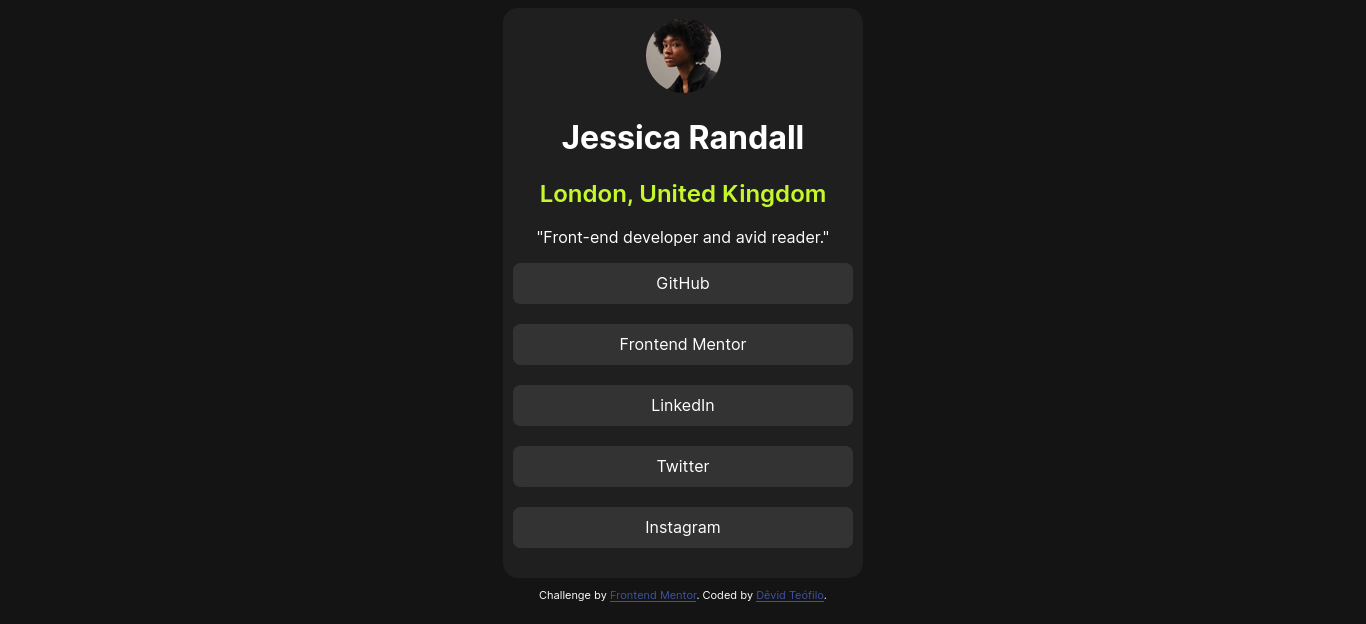
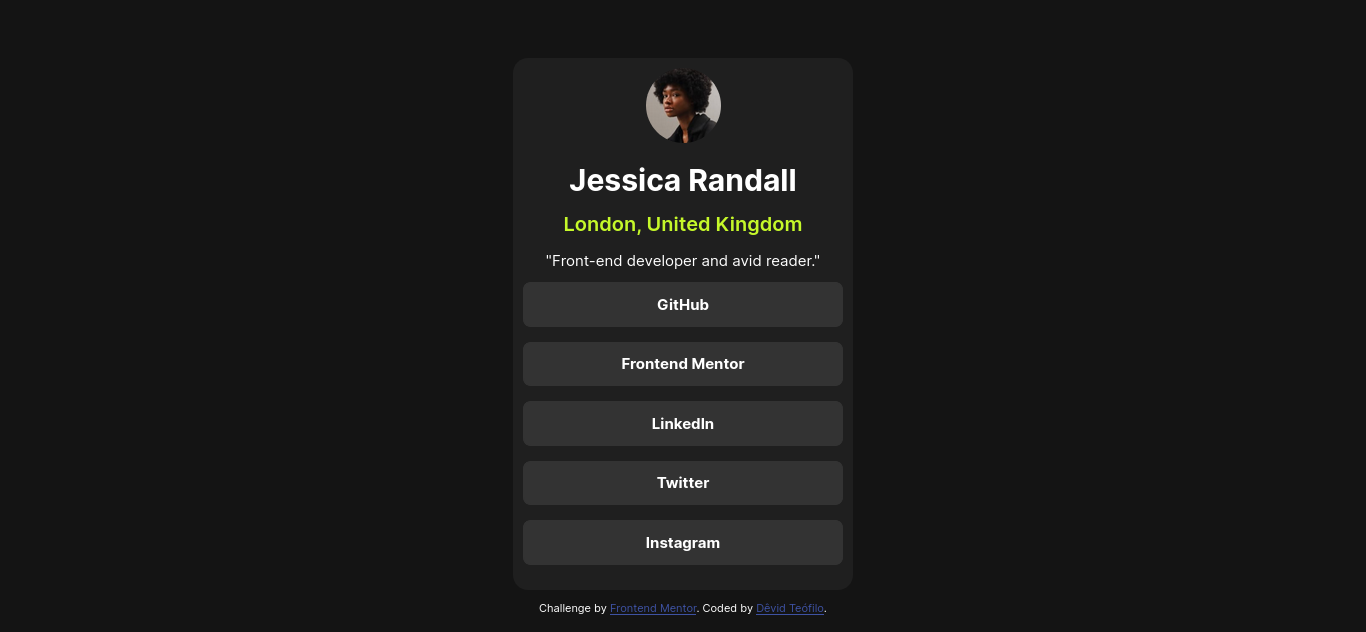
Added relative css units to Social Links Profile Challenge

diff --git a/frontendmentor/social-links-profile-main/index.html b/frontendmentor/social-links-profile-main/index.html
@@ -5,121 +5,44 @@
   <meta name="viewport" content="width=device-width, initial-scale=1.0">
 
   <link rel="icon" type="image/png" sizes="32x32" href="./assets/images/favicon-32x32.png">
-  
+  <link rel="stylesheet" href="reset.css">
+  <link rel="stylesheet" href="style.css">
+
   <title>Frontend Mentor | Social links profile</title>
-
-  <style>
-    @font-face {
-      font-family: 'Inter';
-      src: url(assets/fonts/Inter-VariableFont_slnt,wght.ttf);
-    }
-
-    * {
-      font-family: 'Inter';
-      font-weight: 400;
-    }
-
-    body {
-      background-color: hsl(0, 0%, 8%);
-    }
-
-    .container {
-      background-color: hsl(0, 0%, 12%);
-      width: 340px;
-      margin: auto;
-      padding: 10px;
-      text-align: center;
-      border-radius: 15px;
-    }
-
-    .avatar-image {
-      border-radius: 50%;
-      width: 75px;
-      height: 75px;
-    }
-
-    .primary-title {
-      font-weight: 700;
-      color: hsl(0, 0%, 100%);
-    }
-
-    .secondary-title {
-      font-weight: 600;
-      color: hsl(75, 94%, 57%);
-    }
-
-    .description-text {
-      font-weight: 400;
-      color: hsl(0, 0%, 100%);
-    }
-
-    .social-profile-links-list {
-      list-style-type: none;
-      margin: 0;
-      padding: 0;
-    }
-
-    .social-profile-links-list-item {
-      margin-bottom: 20px;
-    }
-
-    .social-profile-link:link, .social-profile-link:visited {
-      text-decoration: none;
-      color:hsl(0, 0%, 100%);
-      border-radius: 8px;
-      border: 1px solid hsl(0, 0%, 20%);
-      background-color: hsl(0, 0%, 20%);
-      display: block;
-      text-align: center;
-      padding: 10px;
-    }
-
-    .social-profile-link:hover, .social-profile-link:active {
-      background-color: hsl(75, 94%, 57%);
-      color: hsl(0, 0%, 8%);
-    }
-
-
-    .attribution { 
-      font-size: 11px; 
-      text-align: center;
-      color: white;
-      margin-top: 10px;
-    }
-    .attribution a { color: hsl(228, 45%, 44%); }
-  </style>
 </head>
 <body>
 
   <main class="container">
-    <img class="avatar-image" src="assets/images/avatar-jessica.jpeg" alt="Jessica Avatar">
-    <h1 class="primary-title">Jessica Randall</h1>
-    <h2 class="secondary-title">London, United Kingdom</h2>
-    <p class="description-text">
-      "Front-end developer and avid reader."
-    </p>
-
-    <ul class="social-profile-links-list">
-      <li class="social-profile-links-list-item">
-        <a class="social-profile-link" href="#">GitHub</a>
-      </li>
-
-      <li class="social-profile-links-list-item">
-        <a class="social-profile-link" href="#">Frontend Mentor</a>
-      </li>
-
-      <li class="social-profile-links-list-item">
-        <a class="social-profile-link" href="#">LinkedIn</a>
-      </li>
-
-      <li class="social-profile-links-list-item">
-        <a class="social-profile-link" href="#">Twitter</a>
-      </li>
-
-      <li class="social-profile-links-list-item">
-        <a class="social-profile-link" href="#">Instagram</a>
-      </li>
-    </ul>
+    <div class="card">
+      <img class="avatar-image" src="assets/images/avatar-jessica.jpeg" alt="Jessica Avatar">
+      <h1 class="primary-title">Jessica Randall</h1>
+      <h2 class="secondary-title">London, United Kingdom</h2>
+      <p class="description-text">
+        "Front-end developer and avid reader."
+      </p>
+  
+      <ul class="social-profile-links-list">
+        <li class="social-profile-links-list-item">
+          <a class="social-profile-link" href="#">GitHub</a>
+        </li>
+  
+        <li class="social-profile-links-list-item">
+          <a class="social-profile-link" href="#">Frontend Mentor</a>
+        </li>
+  
+        <li class="social-profile-links-list-item">
+          <a class="social-profile-link" href="#">LinkedIn</a>
+        </li>
+  
+        <li class="social-profile-links-list-item">
+          <a class="social-profile-link" href="#">Twitter</a>
+        </li>
+  
+        <li class="social-profile-links-list-item">
+          <a class="social-profile-link" href="#">Instagram</a>
+        </li>
+      </ul>
+    </div>
   </main>
   
   <footer class="attribution">

diff --git a/frontendmentor/social-links-profile-main/style.css b/frontendmentor/social-links-profile-main/style.css
@@ -1,0 +1,91 @@
+@font-face {
+    font-family: 'Inter';
+    src: url(assets/fonts/Inter-VariableFont_slnt,wght.ttf);
+}
+
+* {
+    font-family: 'Inter';
+    font-weight: 400;
+}
+
+body {
+    background-color: hsl(0, 0%, 8%);
+}
+
+.container {
+    display: flex;
+    align-items: center;
+    justify-content: center;
+}
+
+.card {
+    background-color: hsl(0, 0%, 12%);
+    width: 340px;
+    margin-top: 5rem;
+    padding: 1rem;
+    text-align: center;
+    border-radius: 15px;
+}
+
+.avatar-image {
+    border-radius: 50%;
+    width: 75px;
+    height: 75px;
+    margin: auto;
+}
+
+.primary-title {
+    font-weight: 700;
+    color: hsl(0, 0%, 100%);
+    font-size: 3rem;
+}
+
+.secondary-title {
+    font-weight: 600;
+    color: hsl(75, 94%, 57%);
+    font-size: 2rem;
+}
+
+.description-text {
+    font-weight: 400;
+    color: hsl(0, 0%, 100%);
+    font-size: 1.5rem;
+}
+
+.social-profile-links-list {
+    list-style-type: none;
+    margin: 0;
+    padding: 0;
+}
+
+.social-profile-links-list-item {
+    margin-bottom: 1.5rem;
+    margin-top: 1rem;
+}
+
+.social-profile-link:link, .social-profile-link:visited {
+    text-decoration: none;
+    color:hsl(0, 0%, 100%);
+    font-size: 1.5rem;
+    font-weight: bold;
+    border-radius: 8px;
+    border: 1px solid hsl(0, 0%, 20%);
+    background-color: hsl(0, 0%, 20%);
+    display: block;
+    text-align: center;
+    padding: 1rem;
+}
+
+.social-profile-link:hover, .social-profile-link:active {
+    background-color: hsl(75, 94%, 57%);
+    color: hsl(0, 0%, 8%);
+}
+
+
+.attribution { 
+    font-size: 1.1rem; 
+    text-align: center;
+    color: white;
+    margin-top: 1rem;
+}
+.attribution a { color: hsl(228, 45%, 44%); }

diff --git a/frontendmentor/social-links-profile-main/reset.css b/frontendmentor/social-links-profile-main/reset.css
@@ -1,0 +1,73 @@
+/* Box sizing rules */
+*,
+*::before,
+*::after {
+    box-sizing: border-box;
+}
+
+/* Prevent font size inflation and for responsive font size */
+html {
+    -moz-text-size-adjust: none;
+    -webkit-text-size-adjust: none;
+    text-size-adjust: none;
+    font-size: 62.5%;
+}
+
+/* Remove default margin in favour of better control in authored CSS */
+body, h1, h2, h3, h4, p,
+figure, blockquote, dl, dd {
+    margin-block-end: 0;
+}
+
+/* Remove list styles on ul, ol elements with a list role, which suggests default styling will be removed */
+ul[role='list'],
+ol[role='list'] {
+    list-style: none;
+}
+
+/* Set core body defaults */
+body {
+    min-height: 100vh;
+    line-height: 1.5;
+}
+
+/* Set shorter line heights on headings and interactive elements */
+h1, h2, h3, h4,
+button, input, label {
+    line-height: 1.1;
+}
+
+/* Balance text wrapping on headings */
+h1, h2,
+h3, h4 {
+    text-wrap: balance;
+}
+
+/* A elements that don't have a class get default styles */
+a:not([class]) {
+    text-decoration-skip-ink: auto;
+    color: currentColor;
+}
+
+/* Make images easier to work with */
+img,
+picture {
+    max-width: 100%;
+    display: block;
+}
+
+/* Inherit fonts for inputs and buttons */
+input, button,
+textarea, select {
+    font: inherit;
+}
+
+/* Make sure textareas without a rows attribute are not tiny */
+textarea:not([rows]) {
+    min-height: 10em;
+}
+
+/* Anything that has been anchored to should have extra scroll margin */
+:target {
+    scroll-margin-block: 5ex;
+}
